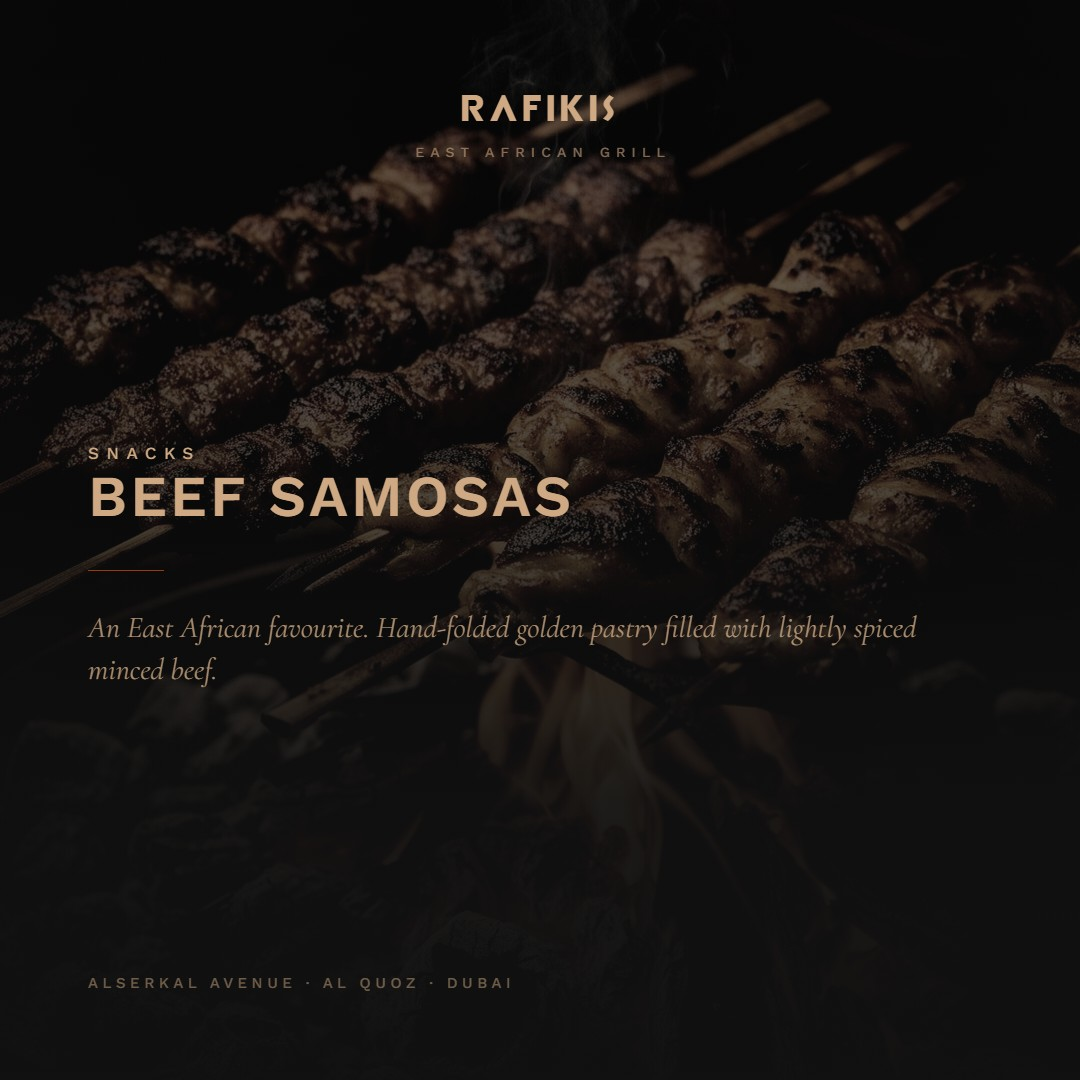
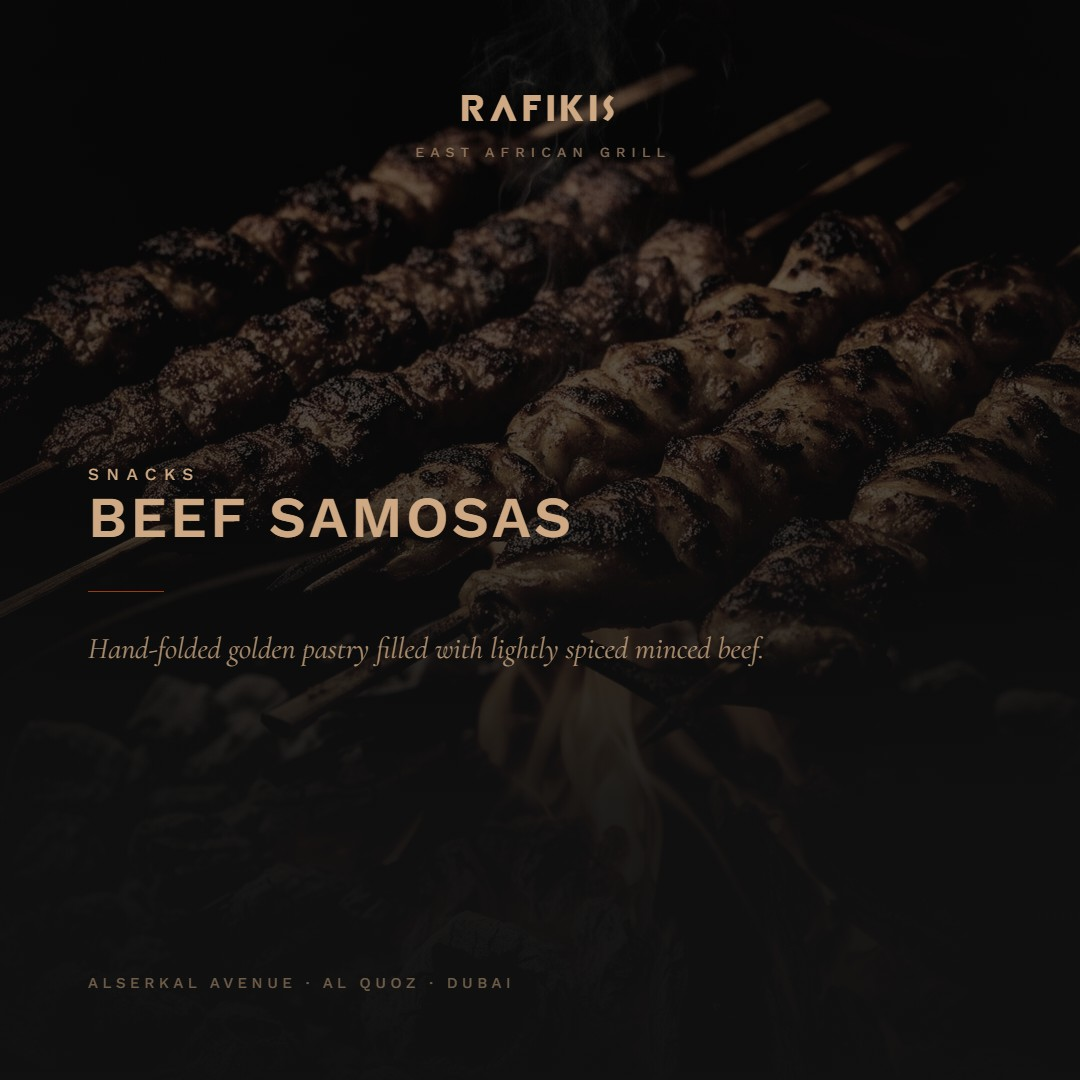
Update the Grills note and the Beef Samosas description
Two of the entries in the supplied copy differ from what shipped; the other
eleven already matched and are untouched.

- Grills note: "All grills served with Rafikis fries, classic fries or
  Rafikis rice." becomes "All grills served with choice of Rafikis Rice,
  Rafikis Fries or Regular Fries." Note the casing now matches the dish
  names exactly, where the old line said "classic fries" for Regular Fries.
- Beef Samosas: the opening sentence is dropped, so it reads "Hand-folded
  golden pastry filled with lightly spiced minced beef."

The Beef Samosas social card carries the same corrected copy and is
re-rendered. Expected copy of record updated, and both checkers pass:
13 of 13 dishes match the page, 12 of 12 dish cards match the menu.

Changed region(s): [[0.0611, 0.3972, 0.55, 0.55], [0.0917, 0.55, 0.8556, 0.6417]]

diff --git a/src/routes/index.tsx b/src/routes/index.tsx
@@ -27,7 +27,7 @@ const MENU: MenuSection[] = [
   {
     id: "grills",
     title: "Grills",
-    note: "All grills served with Rafikis fries, classic fries or Rafikis rice.",
+    note: "All grills served with choice of Rafikis Rice, Rafikis Fries or Regular Fries.",
     items: [
       {
         name: "Rafikis Beef Ribs",
@@ -56,8 +56,7 @@ const MENU: MenuSection[] = [
     items: [
       {
         name: "Beef Samosas",
-        description:
-          "An East African favourite. Hand-folded golden pastry filled with lightly spiced minced beef.",
+        description: "Hand-folded golden pastry filled with lightly spiced minced beef.",
       },
       {
         name: "Mogo",

diff --git a/brand-templates/social.html b/brand-templates/social.html
@@ -177,8 +177,7 @@
           <h2 class="dish">Beef Samosas</h2>
           <div class="rule"></div>
           <p class="dish-note">
-            An East African favourite. Hand-folded golden pastry filled with lightly spiced minced
-            beef.
+            Hand-folded golden pastry filled with lightly spiced minced beef.
           </p>
         </div>
         <p class="footer-line">Alserkal Avenue &middot; Al Quoz &middot; Dubai</p>
